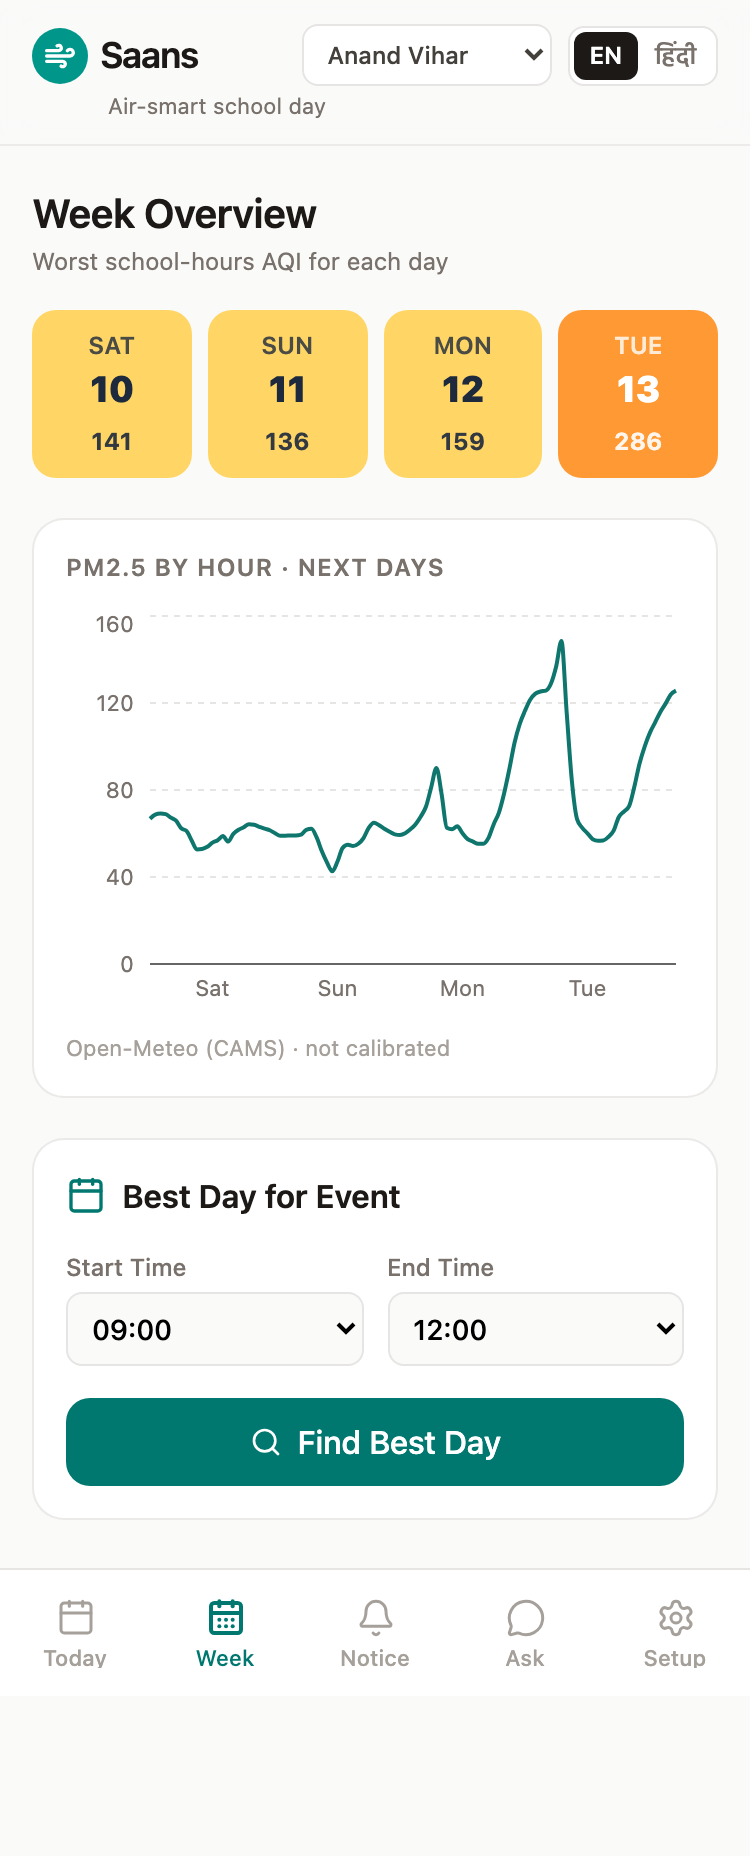
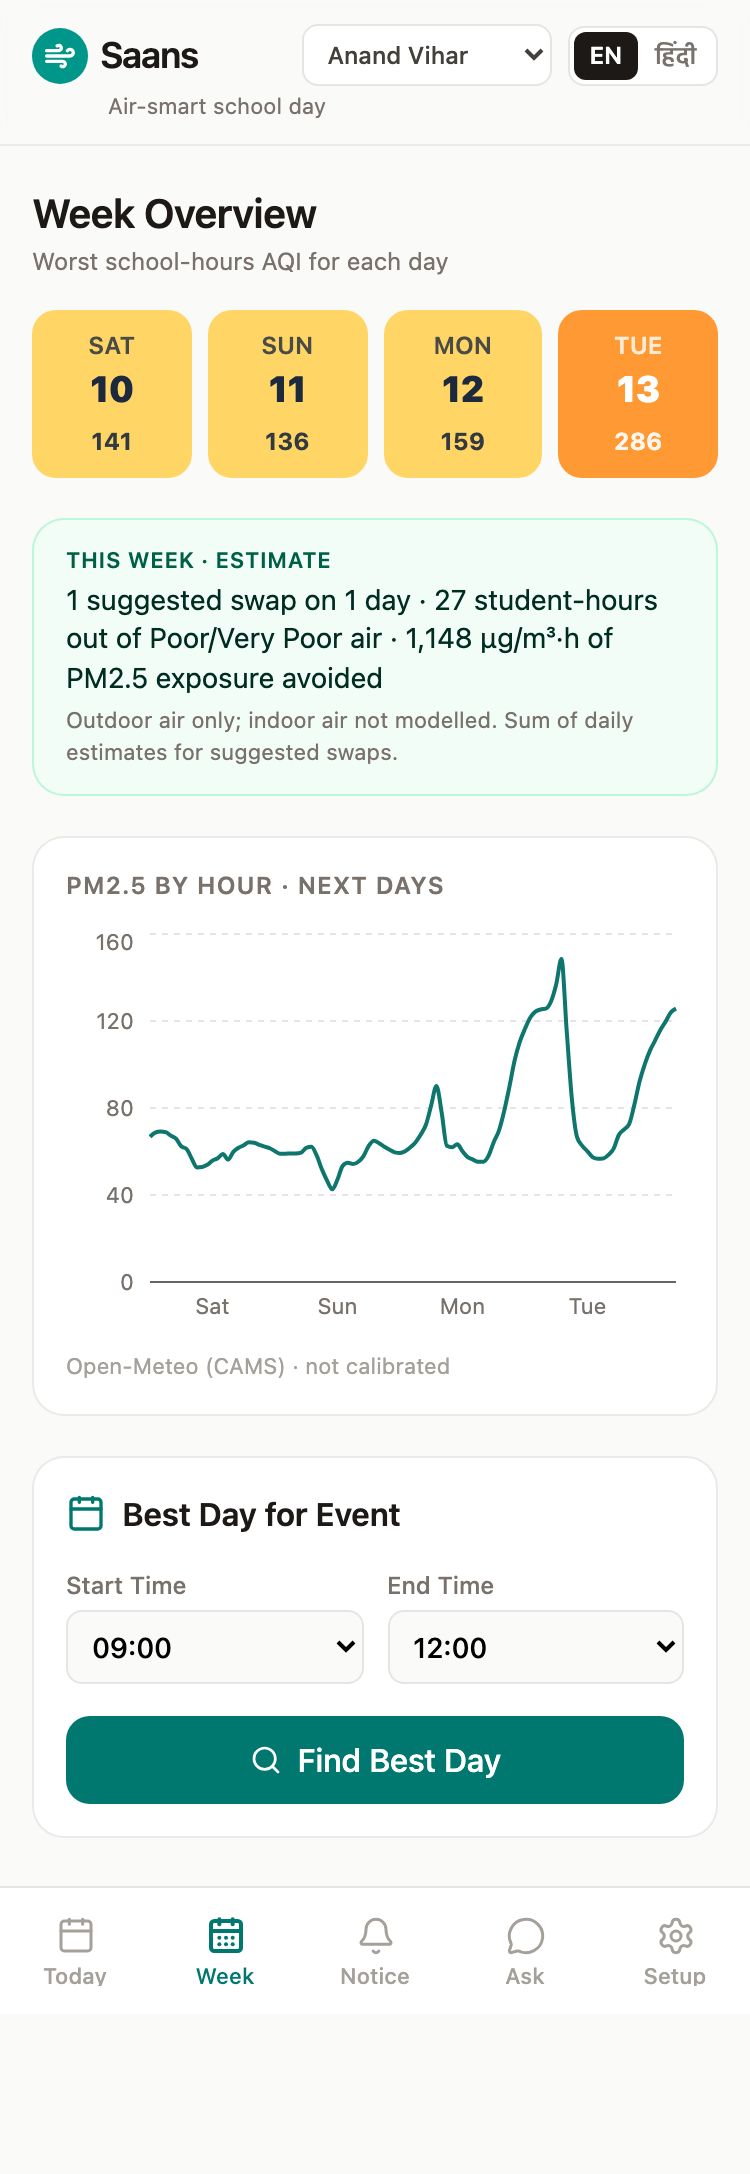
Impact estimate verified live; refreshed screenshots

diff --git a/docs/STATE.md b/docs/STATE.md
@@ -139,7 +139,7 @@
 - 2026-10-10 — Docs (Claude): two claims left as [CITE] — "children breathe faster" (in WHO press material, not on the report page) and a Delhi-specific CAMS bias figure (none found). Humans: verify or remove before submitting.
 - 2026-10-10 — Judge/QA pass (Claude, ~02:30 IST). Scores: Idea 8, AWS 7, Design 7, Execution 6, Video 6 (unrecorded). Fixed: (1) POST /api/schools returned 200 for demo ids → Setup "Save" overwrote the demo school for everyone; demo ids now 403, Setup saves as `custom-<slug>`. (2) `_in_period` counted the end hour for periods ending on the hour (09:20–10:00 used 10:00 air) → wrong period AQI + missed swaps (Dwarka 9B PE Severe, no swap). (3) best-day `band` came from whole-day PM2.5 only → "AQI 148 · Poor"; now band_for_aqi(max_aqi). (4) Lambda in-memory Open-Meteo cache set mode "cached" → false "prepared by the daily job" banner; now mode live (cached reserved for daily-job plans). (5) Replay banner says "recorded Delhi air". (6) README [CITE]s removed/reworded; "What runs on AWS" section. Also: tests wrote to committed data/schools.json — conftest now uses a temp copy (SCHOOLS_PATH). Open: live calibration rarely visible; LLM not on Bedrock; video not recorded.
 - 2026-10-10 — Submission assets (Claude): docs/assets/{architecture,title-card,end-card}.png (1920×1080; sources + generator in docs/assets/src, mermaid-cli 11.4.2 with ELK layout, run via Playwright Chromium — no extra browser download), docs/assets/demo.gif (375px, ~20 s, 2.5 MB; `node frontend/scripts/demo_gif.mjs`, needs ffmpeg), docs/SUBMISSION.md (copy-paste form text). README shows the GIF and architecture image.
-- 2026-10-10 — Impact estimate (Claude): School.students_per_class (default 40); Swap.impact per suggested swap = (mean PM2.5 original hours − new hours) × duration h × students; DayPlan.impact totals over NON-optional swaps; student-hours "out of Poor/Very Poor" only when new slot is better than Poor; /week adds per-day + weekly impact. UI copy says "Suggested swaps WOULD move…" (not "moved" — swaps are suggestions), labelled Estimate, formula in an expander; outdoor-only, infiltration not modelled. Replay day: 40 students, 40 min, 167.8→67.2 µg/m³ (60%), 2,684 µg/m³·h. PLAN §6 updated.
+- 2026-10-10 — Impact estimate (Claude): School.students_per_class (default 40); Swap.impact per suggested swap = (mean PM2.5 original hours − new hours) × duration h × students; DayPlan.impact totals over NON-optional swaps; student-hours "out of Poor/Very Poor" only when new slot is better than Poor; /week adds per-day + weekly impact. UI copy says "Suggested swaps WOULD move…" (not "moved" — swaps are suggestions), labelled Estimate, formula in an expander; outdoor-only, infiltration not modelled. Replay day: 40 students, 40 min, 167.8→67.2 µg/m³ (60%), 2,684 µg/m³·h. PLAN §6 updated. Deployed (backend by agent, Amplify 99aed9d) and verified live ~02:45 IST: replay card text + formula correct; week totals Anand Vihar 1 swap, Dwarka 3 swaps / 80 student-hours, Bengaluru 0; no overflow at 375px.
 - 2026-10-09 — Added lucide-react and recharts dependencies for frontend UI components.
 
 ## Known issues / surprises
